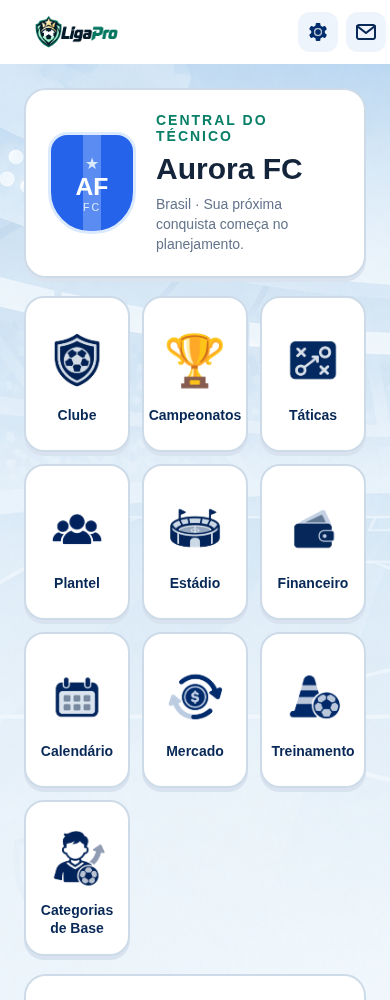
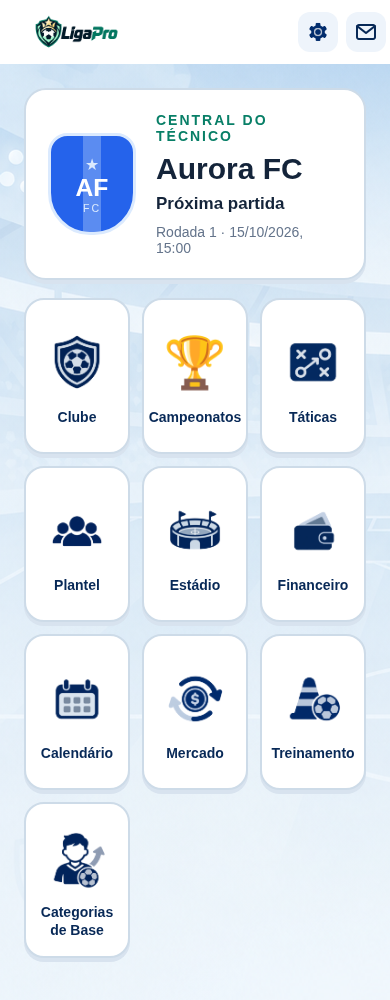
Show next match in club header for v1.0.0.11

diff --git a/mobile/src/screens/DashboardScreen.tsx b/mobile/src/screens/DashboardScreen.tsx
@@ -35,7 +35,7 @@ export function DashboardScreen({ navigation }: NativeStackScreenProps<RootStack
       <View style={styles.identity}>
         <Text style={styles.eyebrow}>CENTRAL DO TÉCNICO</Text>
         <Text style={styles.clubName}>{club?.name}</Text>
-        <Text style={styles.subtitle}>{club?.country?.name || club?.country_id} · Sua próxima conquista começa no planejamento.</Text>
+        <UpcomingMatches open={id => navigation.navigate('MatchLive', { id })} />
       </View>
     </View></Card>
     <View style={styles.grid} onLayout={event => setGridWidth(event.nativeEvent.layout.width)}>
@@ -49,7 +49,6 @@ export function DashboardScreen({ navigation }: NativeStackScreenProps<RootStack
         <Text style={styles.tileTitle}>{shortcut.title}</Text>
       </Pressable>)}
     </View>
-    <Card><UpcomingMatches open={id => navigation.navigate('MatchLive', { id })} /></Card>
   </GamePage>;
 }
 
@@ -58,7 +57,6 @@ const styles = StyleSheet.create({
   identity: { flex: 1, gap: 8 },
   eyebrow: { color: palette.primary, fontWeight: '700', letterSpacing: 2 },
   clubName: { fontSize: 30, fontWeight: '800', color: palette.ink },
-  subtitle: { color: palette.muted, lineHeight: 20 },
   grid: { flexDirection: 'row', flexWrap: 'wrap', gap: 12 },
   tile: {
     minHeight: 156, paddingHorizontal: 8, paddingVertical: 16,
